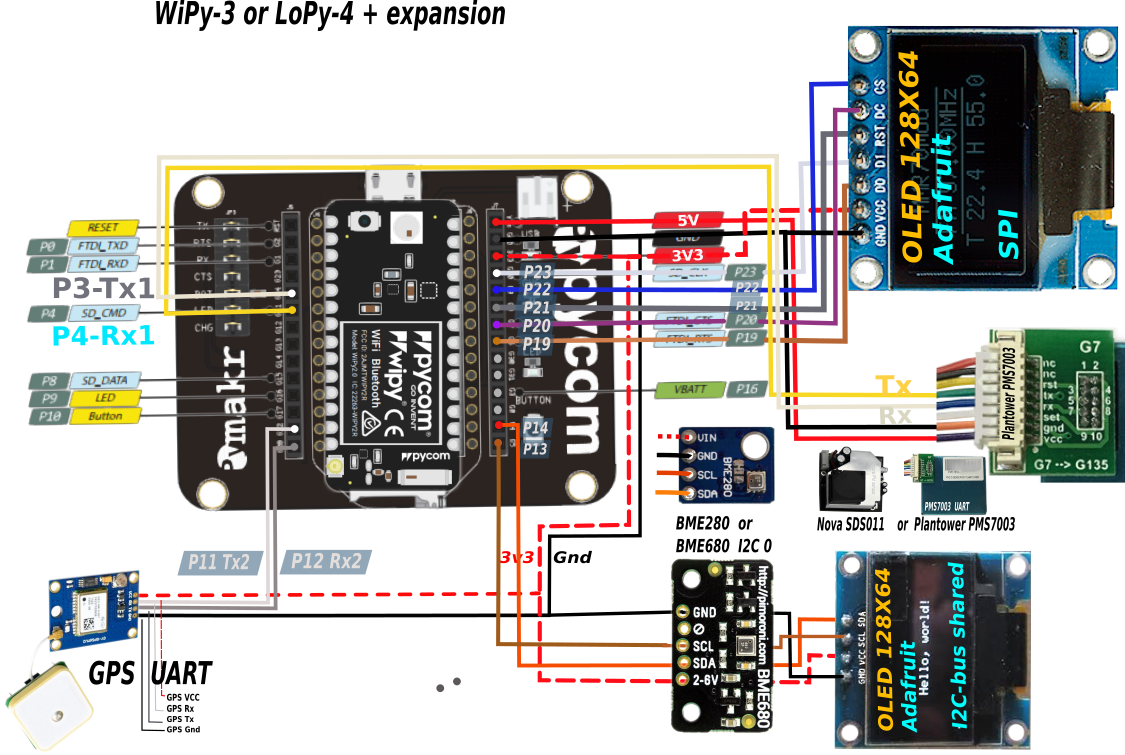
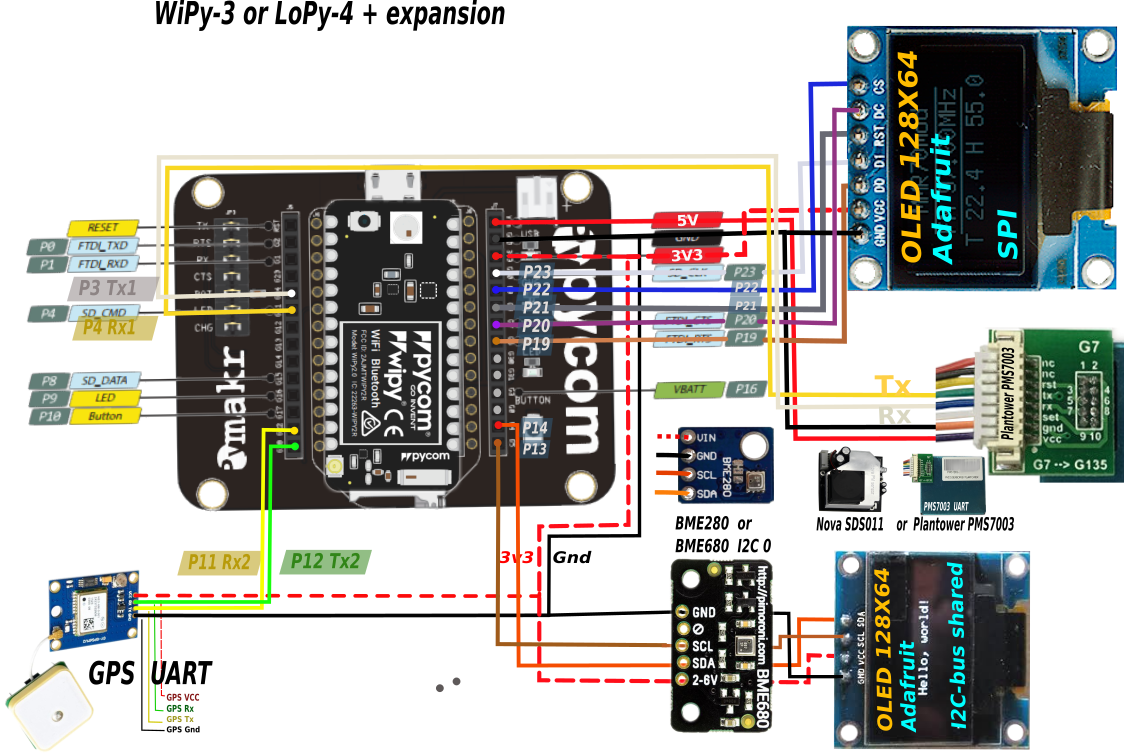
updates to current implementation

diff --git a/PyCom/README.LoPy.md b/PyCom/README.LoPy.md
@@ -1,17 +1,25 @@
+## Description
+The LoPy is a low cost (€ 35) ESP controller which support mi8cropython and has wifi, bluetooth and LoRaWan capabilities. MySense is using the PyCom expansion board (€ 16) for the wiring and programming.
+
+MySense operates with TTN as LoRa dataconcentrator. MySense will initialy try for a period of 5 seconds to join the LoRa network. On failuer it will skip to send measurements to TTN and will continue to show locally the measurements.
+
+For installation, and firmware update see:
+* reference: https://docs.pycom.io
+
 ## LoPy-4 BME/SDS wiring
 
 Orientate the LoPy with the flash light up (if you use the recommanded development shield the small USB connecter will be on top). The name `pycom lopy` will face to the left side. The left side pins are numbererd top down as RST, P0, P1 ,...,P12.
 The right side pins top down are numbered as: Vin V3.3/V5, Gnd, 3V3, P23, P22, ..., P13.
 
-<img src="images/LoPy-wring-BME-SDS-SSD.png" align=right width=400>
+<img src="images/PyCom-wiring-BME-SDS-PMS-SSD-GPS.png" align=right width=400>
 
-SDS011 TTL Uart connection:
+SDS011/PMS7003 TTL Uart connection:
 * SDS Gnd (black) -> LoPy Gnd (on right side 2nd pin, same pin as for BME)
 * SDS V5 (red) -> LoPy V5 (on right side, top pin)
 * SDS Rx (white) -> LoPy P3 / Tx1 (on left side, 5th pin from top)
 * SDS Tx (yellow)-> LoPy P4 / Rx1 (on left side, 6th pin from top)
 
-BME280 I2C  connection (default I2C address):
+BME280/680 I2C  connection (default I2C address):
 * BME Gnd (black) -> LoPy Gnd (on right side, same pin as for SDS)
 * BME V3/5 (red) -> LoPy 3V3 (on right side, 3rd pin from top)
 * BME SDA (white) -> LoPy SDA (on left side, 11th pin from top)
@@ -26,6 +34,12 @@ SSD1306 SPI connection (using GPIO pins):
 * SSD VCC (red) -> LoPy 3V3 (shared with BME280)
 * SSD GND (black) -> LoPy Gnd (on right side, same pin as for SDS)
 
+Grove GPS TTL Uart connection:
+* GPS Gnd (black) -> LoPy Gnd (on right side, shared pin)
+* GPS Vcc (red) -> LoPy 3V3 (shared with others)
+* GPS Rx (green) -> LoPy P12 / Tx2 (on left side, 1st pin from bottom)
+* GPS Tx (yellow) -> LoPy P11 / Rx2 (on left side, 2nd pin from bottom)
+
 ## To Do
 remote command handling
 
@@ -33,9 +47,9 @@ remote command handling
 You need to set up an account and password with The Things Network: https://thethingsnetwork.org/
 
 Via the `console` add an application with a name: https://console.thethingsnetwork.org/applications/add
-If done so click on the added application name and register a device: 
+If done so, click on the added application name and register a device: 
 ://console.thethingsnetwork.org/applications/NAME_APPLICATION/devices/register
-Write down the following information to be entered in the LoRaConfig.py:
+Write down the following information to be entered in the Config.py:
 ```python
 dev_eui = "XXXXXXXXXXXXXXXX"
 app_eui = "YYYYYYYYYYYYYYYY"
@@ -113,29 +127,7 @@ function Decoder(bytes, port) {
   return decoded;
 }
 ```
-
-
-### TTN how to configure TTN decode to json MQTT
-TTN data formats, decoder example.
-Test this with payload: 02 02 01 04 03 FE 00 32 00 2E
-```java
-function Decoder(bytes, port) {
-  // Decode an uplink message from a buffer
-  // (array) of bytes to an object of fields.
-  var decoded = {};
-
-  // if (port === 1) decoded.port = bytes[0];
-  decoded.temperature = ((bytes[0]<<8)+bytes[1])/10.0-30.0;
-  decoded.humidity = ((bytes[2]<<8)+bytes[3])/10.0;
-  decoded.pressure = (bytes[4]<<8)+bytes[5];
-  decoded.pm10 = ((bytes[6]<<8)+bytes[7])/10.0;
-  decoded.pm25 = ((bytes[8]<<8)+bytes[9])/10.0;
-  decoded.dust = 'SDS011';
-  decoded.meteo = 'BME280';
-
-  return decoded;
-}
-```
+Try this with a payload as showed on the tab 'data'.
 
 ### how to collect the data from TTN MQTT server
 Here is an example how your sensor kit will show at the TTN MQTT server via the command:
@@ -149,9 +141,9 @@ The json string from the server, something like:
     "app_id":"20215z","dev_id":"lopyprototype","hardware_serial":"D495613",
     "port":2,"counter":25,
     "payload_raw":"AfsBBAP/ADkANA==",
-    "payload_fields":{
-        "dust":"SDS011","humidity":26,"meteo":"BME280",
-        "pm10":5.7,"pm25":5.2,"pressure":1023,"temperature":20.7},
+    "payload_fields":{ 'temperature': -12.3, 'humidity': 80, ...
+        "utime": 12345678
+    },
     "metadata":{
         "time":"2018-02-23T19:49:29.919556985Z","frequency":868.5,
         "modulation":"LORA","data_rate":"SF7BW125","airtime":61696000,
@@ -166,8 +158,7 @@ The json string from the server, something like:
 ### LoRa port usage
 The LoRa connect routine supports to open more ports as the default LoRa port 2. Use the argument: `ports=3` to open 3 ports. The LoRa send routine supports an argument to discriminate to which port to send the payload.
 Currently ports used by MySense:
-* port 2 (default) to send measurement data: PM2.5, PM10, temp, humidity, pressure
-* port 3 sensor kit information: used sensors and location (GPS)
-* port 4 measurement data: PM1, PM2.5,PM10, temp, humidity, pressure, air quality index
+* port 2 (default) to send measurement data: PM2.5, PM10, temp, humidity, pressure, unix timestamp, etc.
+* port 3 to send meta data as which sensors and location if available.
 
 The LoRa implementation supports to collect data sent to the sensor kit. Define the argument `callback=commandRoutine` on the connect initialisation. The callback rooutin on reception of data on any LoRa port will be called as: `commandRoutine(port,receieved_data)`. See lora_test.py for examples. 

diff --git a/PyCom/README.md b/PyCom/README.md
@@ -1,4 +1,5 @@
 <img src="images/MySense-logo.png" align=right width=100>
+
 # PyCom LoPy or WiPy  BME280/BME680 SDS011/PMS7003 GPS  MySense sensor kit
 
 Status: *beta* 2018/04/02
@@ -35,7 +36,7 @@ One may send data via MySense Pi server to RIVM in the Netherlands as well Luftd
 ### measurement data
 The MySense kit will collect measurements from dust (Nova SDS011 and Plantower PMS7003) sensors and meteo (BME280 or BME680 with air quality support) sensors and send this data either via wifi or LoRaWan (TTN) Mosquitto (MQTT) dataconcentrator. Dust measurements will be collected over a sample time (default 1 minute) and send to the data concentraor at interval (default 5 minutes) periods of time. Fan and laser of the dust sensors will be powered off in the idle periods of time.
 
-The MySense server will collect this information from the MQTT servers and formward these measurments and meta data to e.g. a MySQL database, spreadsheet or another data stream service.
+The MySense server will collect this information from the MQTT servers and formward these measurements and meta data to e.g. a MySQL database, spreadsheet or another data stream service.
 
 ### remote management
 The LoRa MySense part is supporting remote control via TTN. The following remote commands are supported yet:
@@ -88,7 +89,7 @@ Maximum of UART modules is 2 (e.g. dust and GPS modules).
 
 ### RTC clock
 MySense will use GPS to initilyse the Real Time Clock module. Every time the GPS location is looked up the RTC clock will be updated automatically.
-This will allow MySense to timestamp measurments more precise.
+This will allow MySense to timestamp measurements more precise.
 
 ### MySense satellite kit configuration
 Use the file `Config.py` to define which sensors are configured for the kit. Have a good look at the *pin*s definitions and bus used for the sensor. The `Config.py` file should reside in the *firmware* directory in order to upload it to the controller.
@@ -99,7 +100,7 @@ Do not change the order in the `Meteo` and `Dust` array definition!
 MySense has provided several simple XYZ_test.py python scripts to test the sensor modules for needed libraries and check of wiring.
 Make sure to configure the right pin ID's in `Config.py` configuration file for the test scripts.
 
-Test your setup one by one before trying out the main wrapper `MySense.py` via *sense.runMe()* or `main.py`.
+Test your setup one by one before trying out the main wrapper `MySense.py` via *MySense.runMe()* or `main.py`.
 
 ## Your First Steps
 * visit the PyCom.io website and follow the installation guide
@@ -126,7 +127,7 @@ The following is an outline how we do the developments and module testing:
 * and give feedback
 
 ## MySense scripts
-The main micropython script which drives the sensor kit is `MySense.py`. Use `main.py` to import MySense.py and run `sense.runMe()` to run the kit.
+The main micropython script which drives the sensor kit is `MySense.py`. Use `main.py` to import MySense.py and run `MySense.runMe()` to run the kit.
 
 The micropython (looks like Python 3) script uses the Adafruit BME280 and BME680 (I2C-bus) python module, SDS011 (Uart 1) module from Rex Fue Feinstaub `https://github.com/rexfue/Feinstaub_LoPy` and Telenor weather station `https://github.com/TelenorStartIoT/lorawan-weather-station` and SSD1306 (Adafruit tiny display SPI-bus).
 
@@ -134,8 +135,8 @@ In the test phase one should not download main.py to the LoPy controller. Use `M
 Use (open) the directory `firmware` as base for the atom project and upload all file by pressing the upload key.
 On the console prompt `>>>` use the following:
 ```python
-import sense
-sense.runMe()
+import MySense
+MySense.runMe()
 ```
 After this initial test rename MySense.py to main.py. And upload main.py to the LoPy.
 
